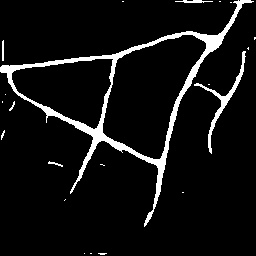
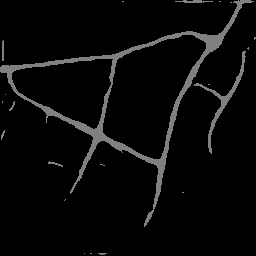
update in roadextract

diff --git a/backend/src/scripts/roadExtract.py b/backend/src/scripts/roadExtract.py
@@ -9,7 +9,7 @@ def custom_load_model(model_path):
     return keras.models.load_model(model_path, compile=False)
 
 # Load the model
-MODEL_PATH = "src/model_ml/roads_extraction.h5"
+MODEL_PATH = "backend/src/model_ml/roads_extraction.h5"
 model = custom_load_model(MODEL_PATH)
 
 
@@ -22,15 +22,24 @@ def preprocess_image(image_path, img_size=(256, 256)):
     return np.expand_dims(image, axis=0)
 
 # Predict roads
-def predict_road(image_path, output_path="public/output/road_mask.jpg"):
+def predict_road(image_path, output_path):
     input_image = preprocess_image(image_path)
     prediction = model.predict(input_image)
     prediction = (prediction > 0.5).astype(np.uint8)
-    mask = (prediction[0] * 255).astype(np.uint8)
+    mask = prediction[0].squeeze()  # Shape: (256, 256)
 
-    # Save the water detection mask to the public/output folder
-    cv2.imwrite(output_path, mask)
+    # Create RGB mask: gray for road (128,128,128), black for background
+    gray = [128, 128, 128]
+    black = [0, 0, 0]
+    mask_rgb = np.zeros((mask.shape[0], mask.shape[1], 3), dtype=np.uint8)
+    mask_rgb[mask == 1] = gray
+    mask_rgb[mask == 0] = black
+
+    # Save RGB mask
+    cv2.imwrite(output_path, cv2.cvtColor(mask_rgb, cv2.COLOR_RGB2BGR))
     print(f"Road detection mask saved to {output_path}")
 
 # Run the model
-predict_road("public/input/sat.jpg")
+output_path="backend/public/output/road_mask.jpg"
+input_path="backend/public/input/sat.jpg"
+predict_road(input_path,output_path)

diff --git a/backend/src/scripts/buildExtract.py b/backend/src/scripts/buildExtract.py
@@ -4,7 +4,7 @@ import matplotlib.pyplot as plt
 from PIL import Image
 
 # Load the trained model
-model = tf.keras.models.load_model("backend/src/model_ml/build.h5")  
+model = tf.keras.models.load_model("src/model_ml/build.h5")  
 
 # Function to make a prediction on an image
 def predict_image(image_path):
@@ -30,10 +30,10 @@ def predict_image(image_path):
     mask_rgb[pred_mask == 1] = yellow
     mask_rgb[pred_mask == 0] = black
 
-    output_path = "backend/public/Output/build_mask.jpg"
+    output_path = "public/Output/build_mask.jpg"
     pred_img = Image.fromarray(mask_rgb)
     pred_img.save(output_path, format="JPEG")
     
 # Example usage
-image_path = "backend/public/Input/sat.jpg" 
+image_path = "public/Input/sat.jpg" 
 predict_image(image_path)
